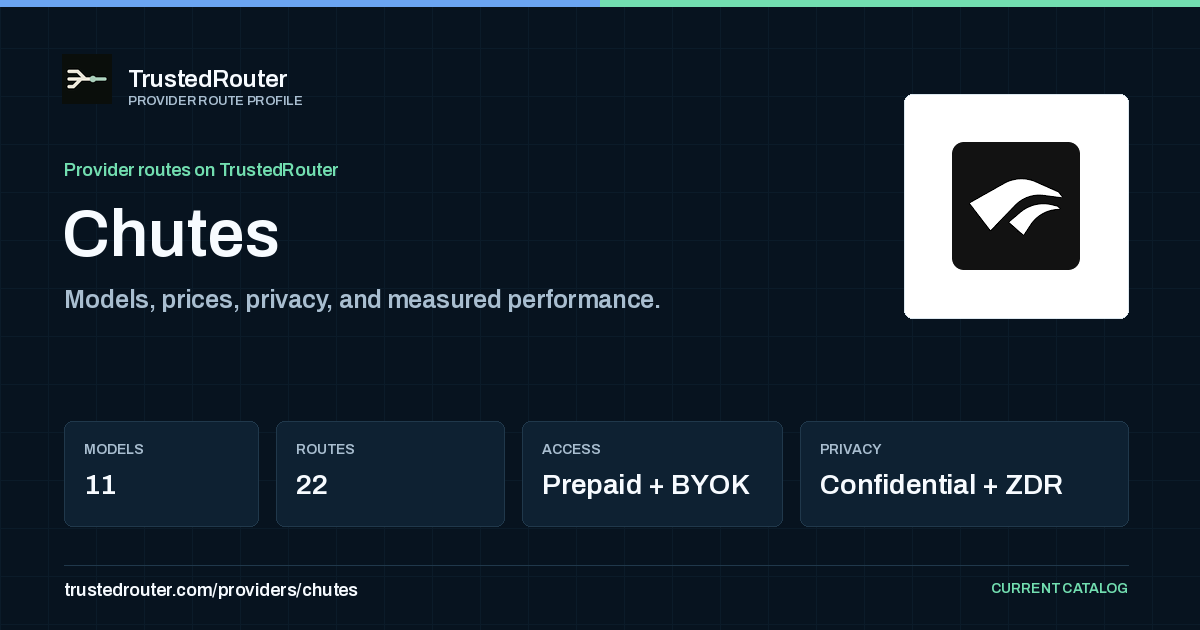
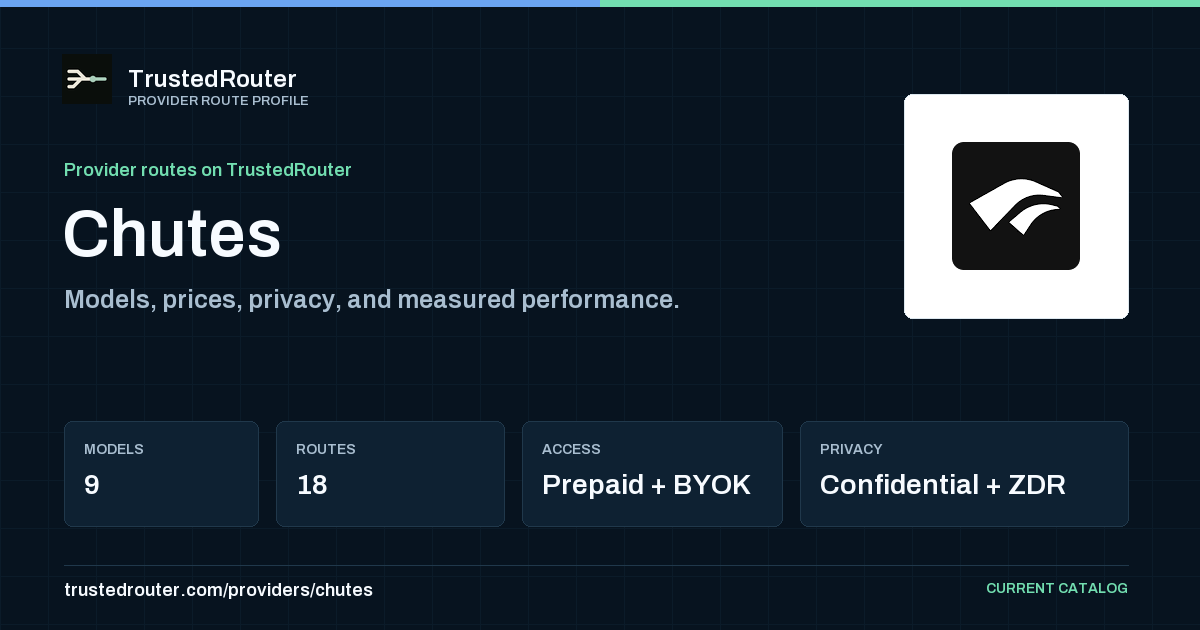
catalog: keep the held Chutes routes out of every refresh's snapshot
Codex review, plus a defect it missed:
- The hourly refresh drops held rows from the snapshot only for
  SNAPSHOT_EXCLUDED_HOLD_REASONS, which lacked provider-route-unavailable.
  OpenRouter still lists Chutes for both models, so the next refresh would
  have re-published the dead TEE routes (as BYOK routes) and failed its own
  snapshot check. The reason joins the set; only Chutes uses it, and a
  customer's key reaches the same 502.
- The committed snapshot's headline prices follow the cheapest remaining
  endpoint, as the refresh computes them (deepinfra for both).
- The Chutes provider card and manifest are regenerated (9 models, 18
  routes).

diff --git a/tests/test_pricing_refresh_held_rows.py b/tests/test_pricing_refresh_held_rows.py
@@ -238,3 +238,13 @@ def test_real_tinker_inkling_2_small_hold_is_excluded_from_snapshot_routes() -> 
     # Pending enclave qualification is not an account hold (Maple routes
     # are prepaid-only and the runtime filter already drops them).
     assert "thinkingmachines/inkling-2-small" not in held.get("maple", frozenset())
+
+
+def test_chutes_route_unavailable_holds_are_excluded_from_snapshot_routes() -> None:
+    # Chutes still appears on OpenRouter for these models; without the
+    # exclusion the hourly refresh would re-publish the dead TEE routes (as
+    # BYOK routes) and fail its own snapshot checks.
+    held = refresh._manifest_held_routes()
+    for model_id in ("qwen/qwen3.5-397b-a17b", "qwen/qwen3.5-27b", "mistralai/mistral-nemo"):
+        assert model_id in held["chutes"]
+    assert "z-ai/glm-5.2" not in held["chutes"]

diff --git a/scripts/pricing/refresh.py b/scripts/pricing/refresh.py
@@ -841,6 +841,10 @@ def _index_provider_prices(
 SNAPSHOT_EXCLUDED_HOLD_REASONS: frozenset[str] = frozenset(
     {
         "provider-access-unavailable",
+        # An operator-confirmed route the provider itself cannot serve (Chutes
+        # TEE rows answering HTTP 502 for every caller): a customer's key
+        # reaches the same dead route, so it is not a BYOK route either.
+        "provider-route-unavailable",
         *PREPAID_PROVIDER_HOLD_REASONS.values(),
         *PROVIDER_INCIDENT_HOLD_REASONS.values(),
     }
